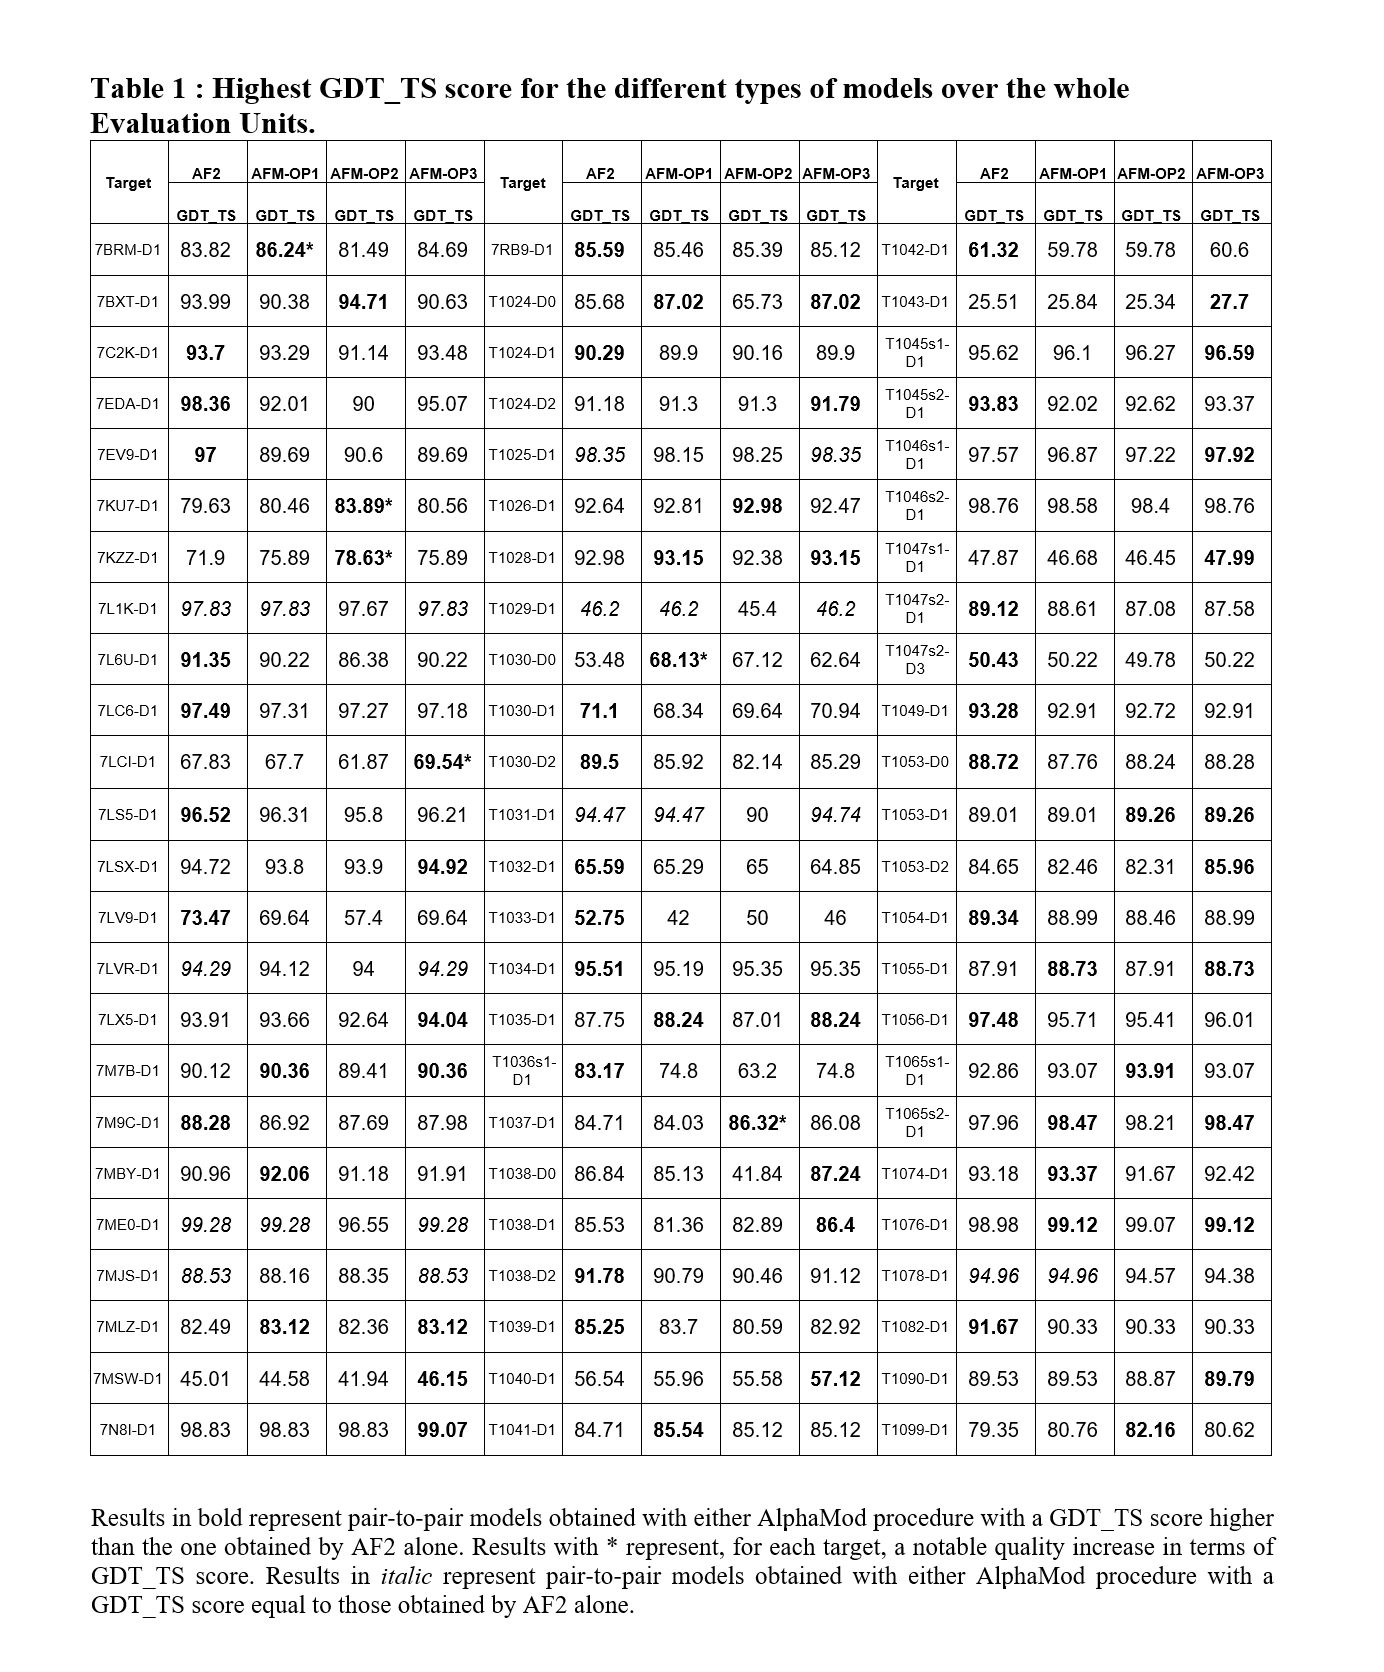
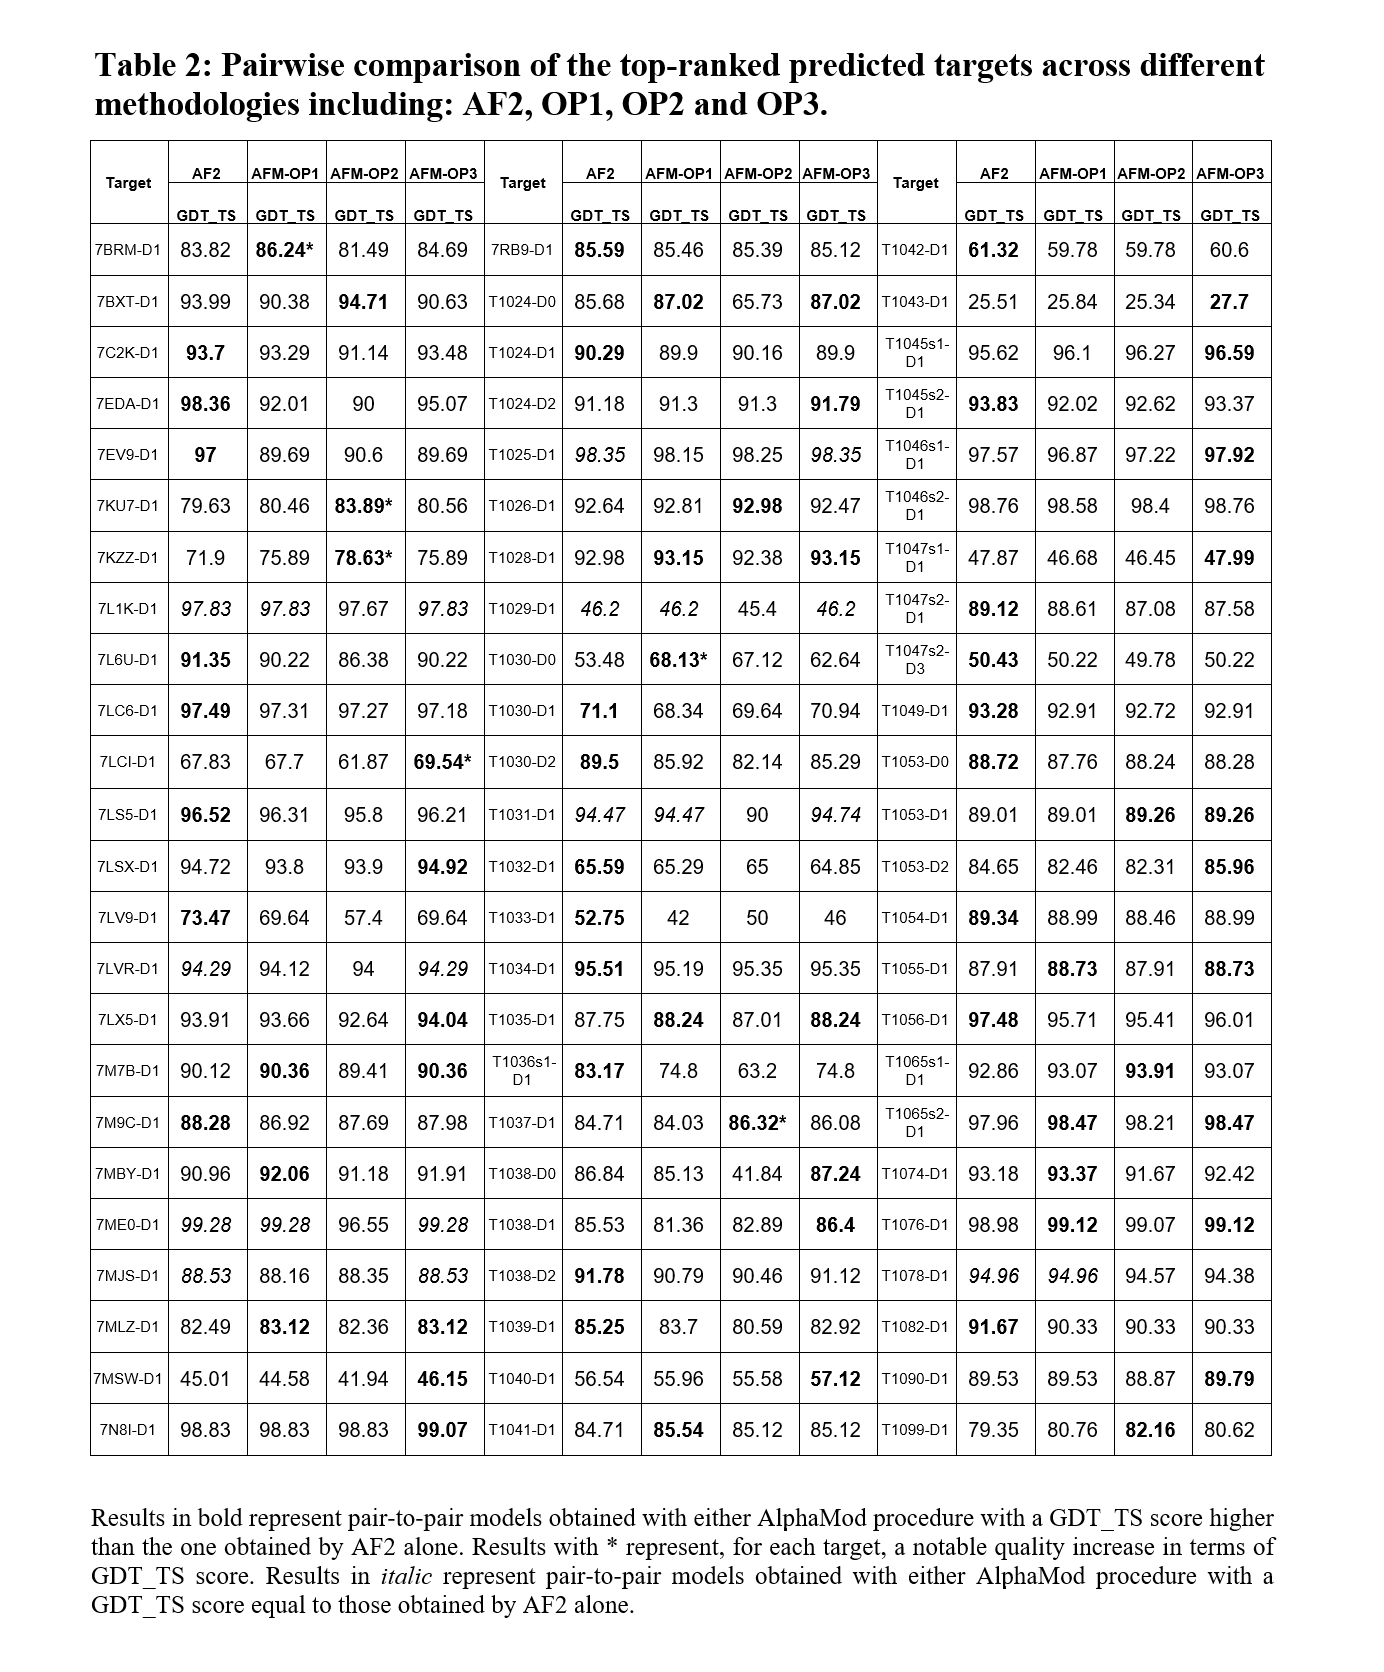
Updated REAMDE.md

Changed region(s): [[0.0621, 0.0311, 0.901, 0.0933]]

diff --git a/README.md b/README.md
@@ -35,7 +35,7 @@ Table 1: Average RMSD for the different types of models obtained (domains only) 
 ![AlphaMod Pipeline](https://github.com/Fabio-Gil-Z/AlphaMod/blob/main/Images/Table_1.png)<br /> <br />
 
 <h2 align="center">
-Table 2: Highest GDT_TS score for the different types of models over the whole Evaluation Units. 
+Table 2: Pairwise comparison of the top-ranked predicted targets across different methodologies including: AF2, OP1, OP2 and OP3.  
 </h2>
 
 ![AlphaMod Pipeline](https://github.com/Fabio-Gil-Z/AlphaMod/blob/main/Images/Table_2.png)<br /> <br />
